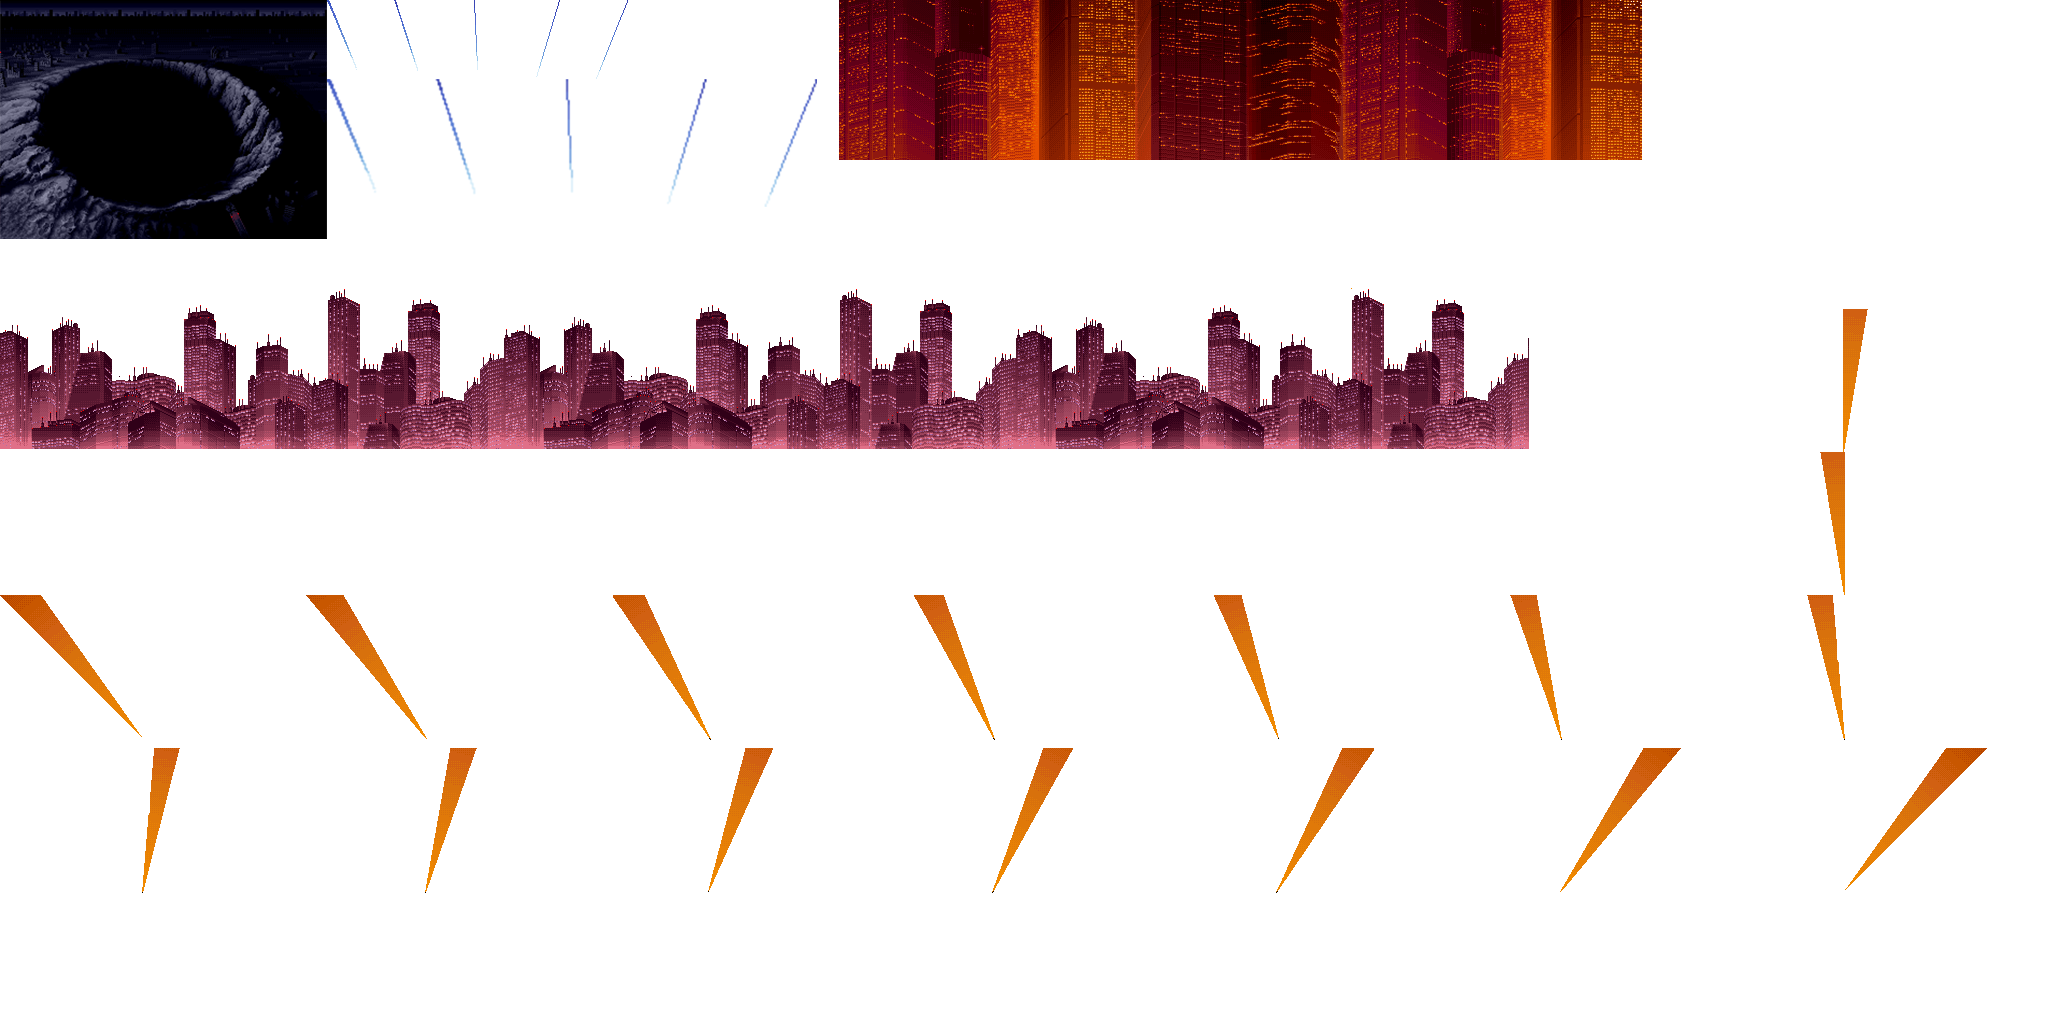
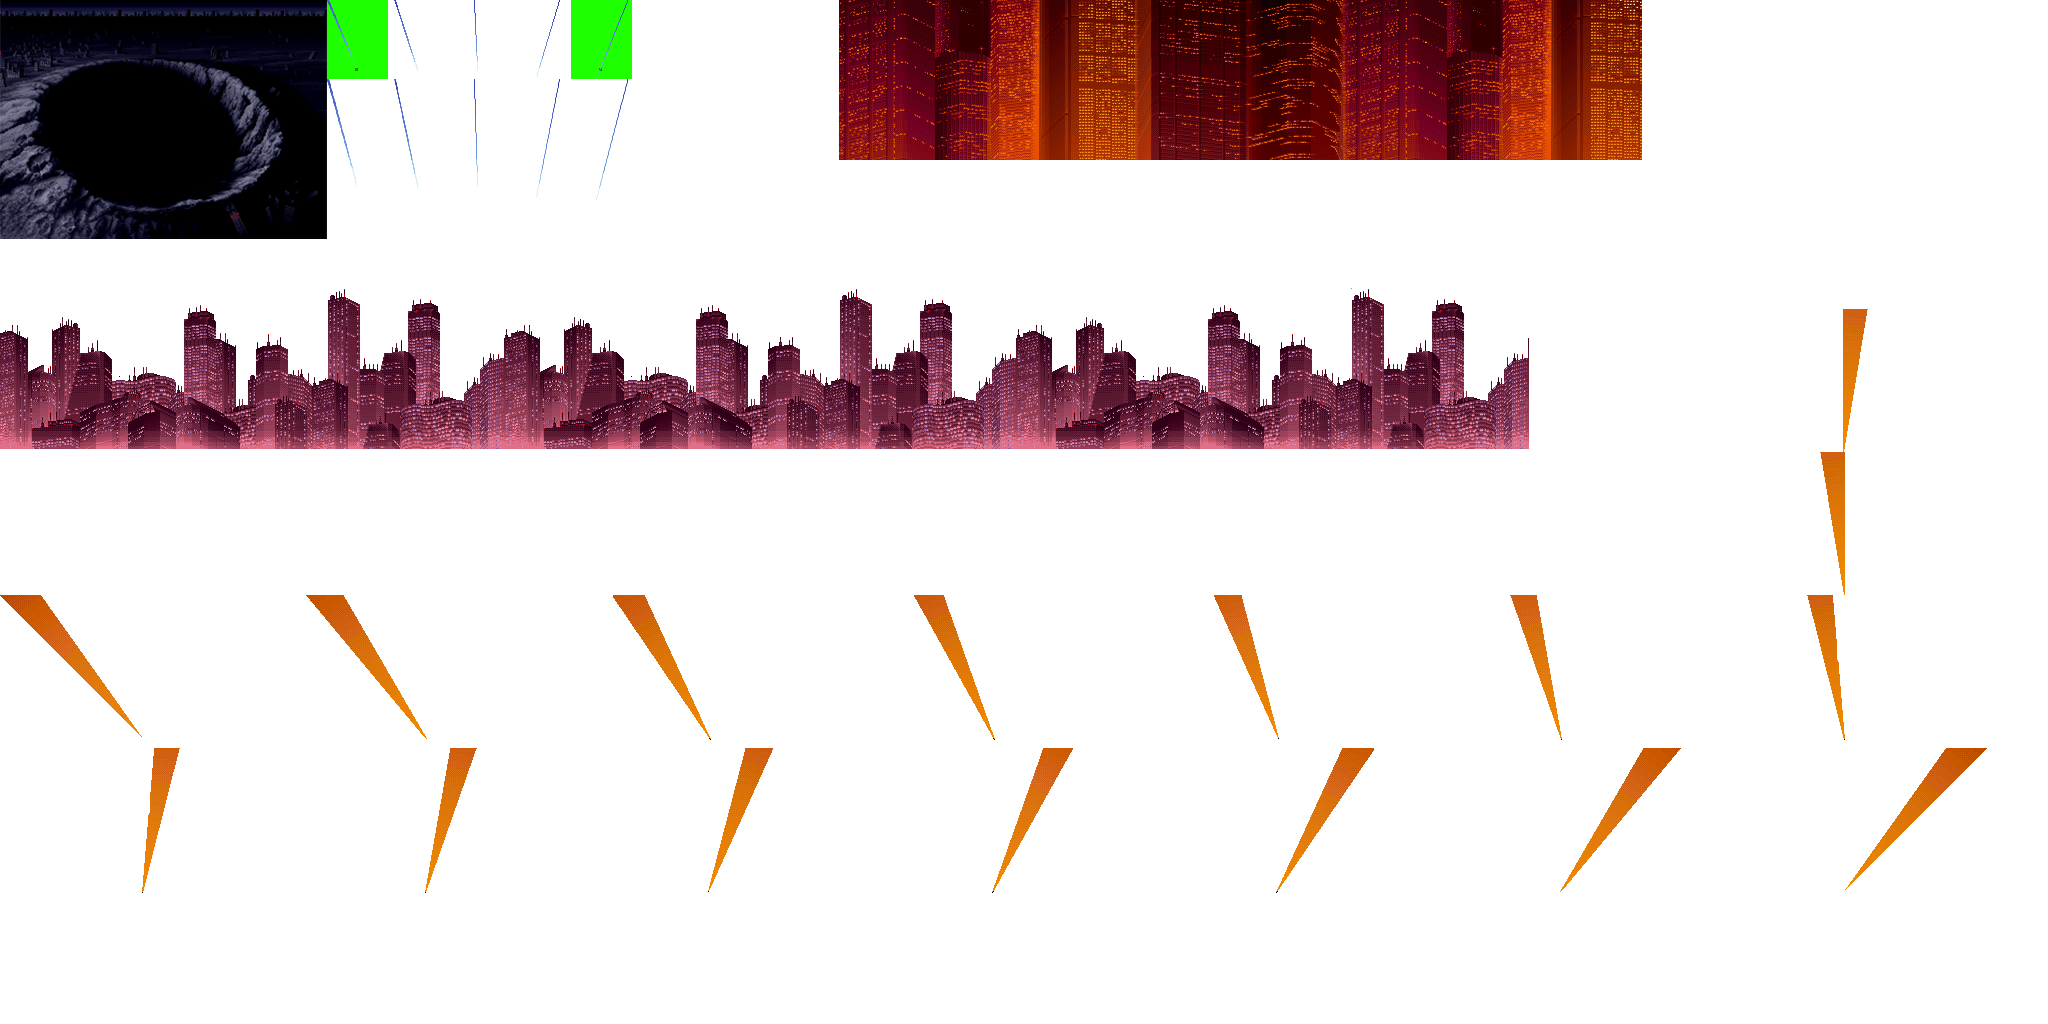
Middle blue light change

Changed region(s): [[0.1562, 0.0, 0.1875, 0.125], [0.2812, 0.0, 0.3125, 0.0938]]

diff --git a/Last Resort Prototype/ModuleBackground.cpp b/Last Resort Prototype/ModuleBackground.cpp
@@ -51,15 +51,15 @@ ModuleBackground::ModuleBackground()
 	light.PushBack({ 388,0,67,79 });
 	light.speed = 0.035f;
 
-	light1.PushBack({ 327,79,100,128 });
-	light1.PushBack({ 427,79,100,128 });
-	light1.PushBack({ 527,79,100,128 });
-	light1.PushBack({ 627,79,100,128 });
-	light1.PushBack({ 727,79,100,128 });
-	light1.PushBack({ 627,79,100,128 });
-	light1.PushBack({ 527,79,100,128 });
-	light1.PushBack({ 427,79,100,128 });
-	light1.speed = 0.35f;
+	lightNew.PushBack({ 327,79,67,121 });
+	lightNew.PushBack({ 388,79,67,121 });
+	lightNew.PushBack({ 449,79,67,121 });
+	lightNew.PushBack({ 510,79,67,121 });
+	lightNew.PushBack({ 571,79,67,121 });
+	lightNew.PushBack({ 510,79,67,121 });
+	lightNew.PushBack({ 449,79,67,121 });
+	lightNew.PushBack({ 388,79,67,121 });
+	lightNew.speed = 0.035f;
 
 	backgroundLights.PushBack({ 0,595,284,144 });
 	backgroundLights.PushBack({ 284,595,284,144 });
@@ -175,7 +175,7 @@ void ModuleBackground::RenderLights()
 {
 	App->render->Blit(graphics2, 171, -19, &light.GetCurrentFrame(), 0.4f);
 	App->render->Blit(graphics2, 683, -19, &light.GetCurrentFrame(), 0.4f);
-	App->render->Blit(graphics2, 765, 10, &light1.GetCurrentFrame(), 0.4f);
+	App->render->Blit(graphics2, 750, 10, &lightNew.GetCurrentFrame(), 0.4f);
 	App->render->Blit(graphics2, 827, -35, &light.GetCurrentFrame(), 0.4f);
 
 	if (!render_light) {

diff --git a/Last Resort Prototype/ModuleBackground.h b/Last Resort Prototype/ModuleBackground.h
@@ -34,7 +34,7 @@ public:
 	Animation backgroundLights;
 	Animation streetLights;
 	Animation light;	
-	Animation light1;
+	Animation lightNew;
 
 	bool render_light = false;
 	bool scroll = true; 
